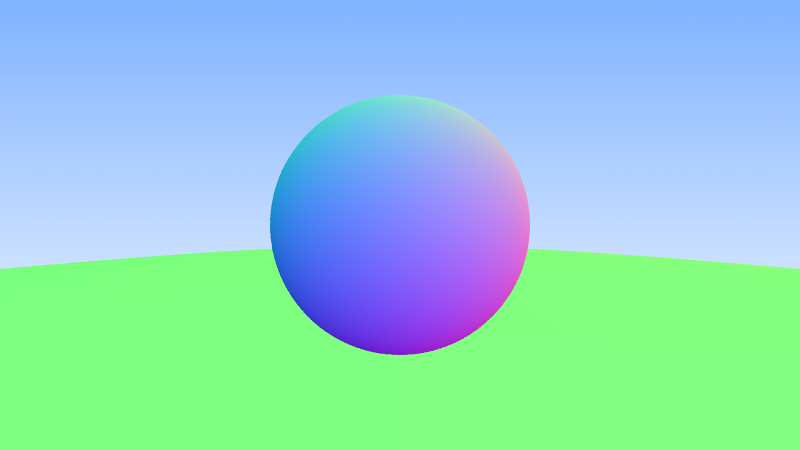
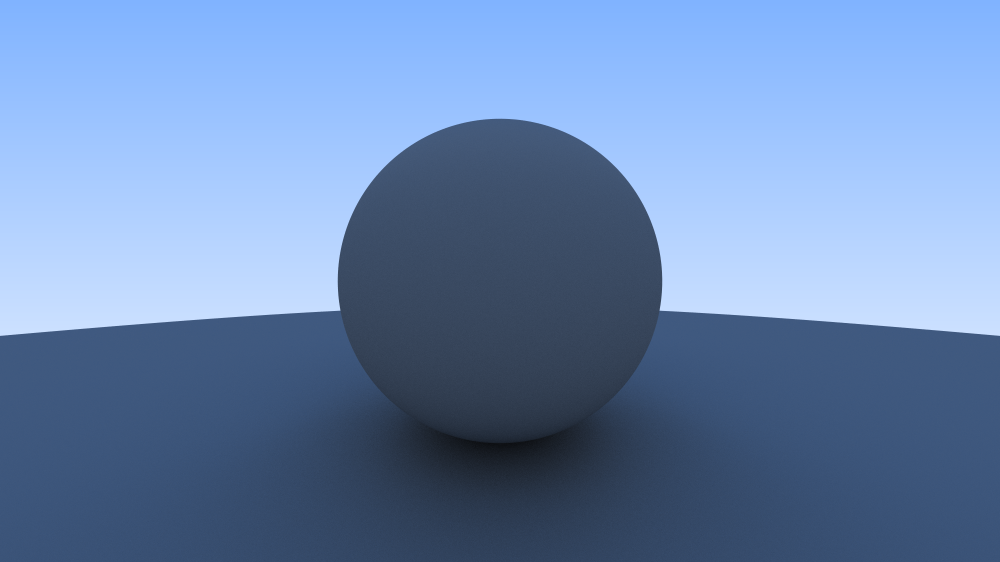
add Lambertian reflections

diff --git a/internal/lumen/camera.go b/internal/lumen/camera.go
@@ -9,10 +9,12 @@ import (
 )
 
 const aspectRatio = 16.0 / 9.0
-const imageWidth = 800
+const imageWidth = 1000
 const viewportHeight = 2.0
 const focalLength = 1.0
 const samplesPerPixel = 10
+const maxDepth = 50
+const intersectionThreshold = 0.001
 
 type Camera struct {
 	Origin         Vec3
@@ -63,7 +65,7 @@ func (c *Camera) Render(world HittableList) *image.RGBA {
 
 			for range samplesPerPixel {
 				r := c.GetRay(i, j)
-				pixelColor = pixelColor.Add(c.GetRayColor(r, world))
+				pixelColor = pixelColor.Add(c.GetRayColor(r, world, maxDepth))
 			}
 
 			img.SetRGBA(i, j, pixelColor.Div(samplesPerPixel).ToRGBA())
@@ -80,9 +82,14 @@ func (c *Camera) GetRay(i, j int) Ray {
 	return NewRay(c.Origin, pixelSample.Sub(c.Origin))
 }
 
-func (c *Camera) GetRayColor(r Ray, world HittableList) Vec3 {
-	if record := world.Hit(r, NewInterval(0, math.Inf(1))); record != nil {
-		return NewVec3(1, 1, 1).Add(record.Normal).Mul(0.5)
+func (c *Camera) GetRayColor(r Ray, world HittableList, depth int) Vec3 {
+	if depth <= 0 {
+		return NewVec3(0, 0, 0)
+	}
+
+	if record := world.Hit(r, NewInterval(intersectionThreshold, math.Inf(1))); record != nil {
+		bounceDirection := record.Normal.Add(NewRandomUnitVec3())
+		return c.GetRayColor(NewRay(record.P, bounceDirection), world, depth-1).Mul(0.5)
 	}
 
 	a := 0.5 * (r.Direction.Y + 1.0)

diff --git a/internal/lumen/vec3.go b/internal/lumen/vec3.go
@@ -21,6 +21,29 @@ func NewVec3(x, y, z float64) Vec3 {
 	}
 }
 
+func NewRandomVec3(min, max float64) Vec3 {
+	return NewVec3(RandomDouble(min, max), RandomDouble(min, max), RandomDouble(min, max))
+}
+
+func NewRandomUnitVec3() Vec3 {
+	for {
+		p := NewRandomVec3(-1, 1)
+		lensq := p.LengthSquared()
+		if math.SmallestNonzeroFloat64 < lensq || lensq <= 1 {
+			return p.Div(math.Sqrt(lensq))
+		}
+	}
+}
+
+func NewRandomUnitVec3OnHemisphere(normal Vec3) Vec3 {
+	v := NewRandomUnitVec3()
+	if v.Dot(normal) > 0.0 {
+		return v
+	}
+
+	return v.Mul(-1)
+}
+
 func (v Vec3) String() string {
 	pretty, _ := json.MarshalIndent(v, "", "  ")
 	return fmt.Sprintf("Vec3: %v", string(pretty))

diff --git a/internal/lumen/utils.go b/internal/lumen/utils.go
@@ -1,0 +1,7 @@
+package lumen
+
+import "math/rand"
+
+func RandomDouble(min, max float64) float64 {
+	return min + rand.Float64()*(max-min)
+}
